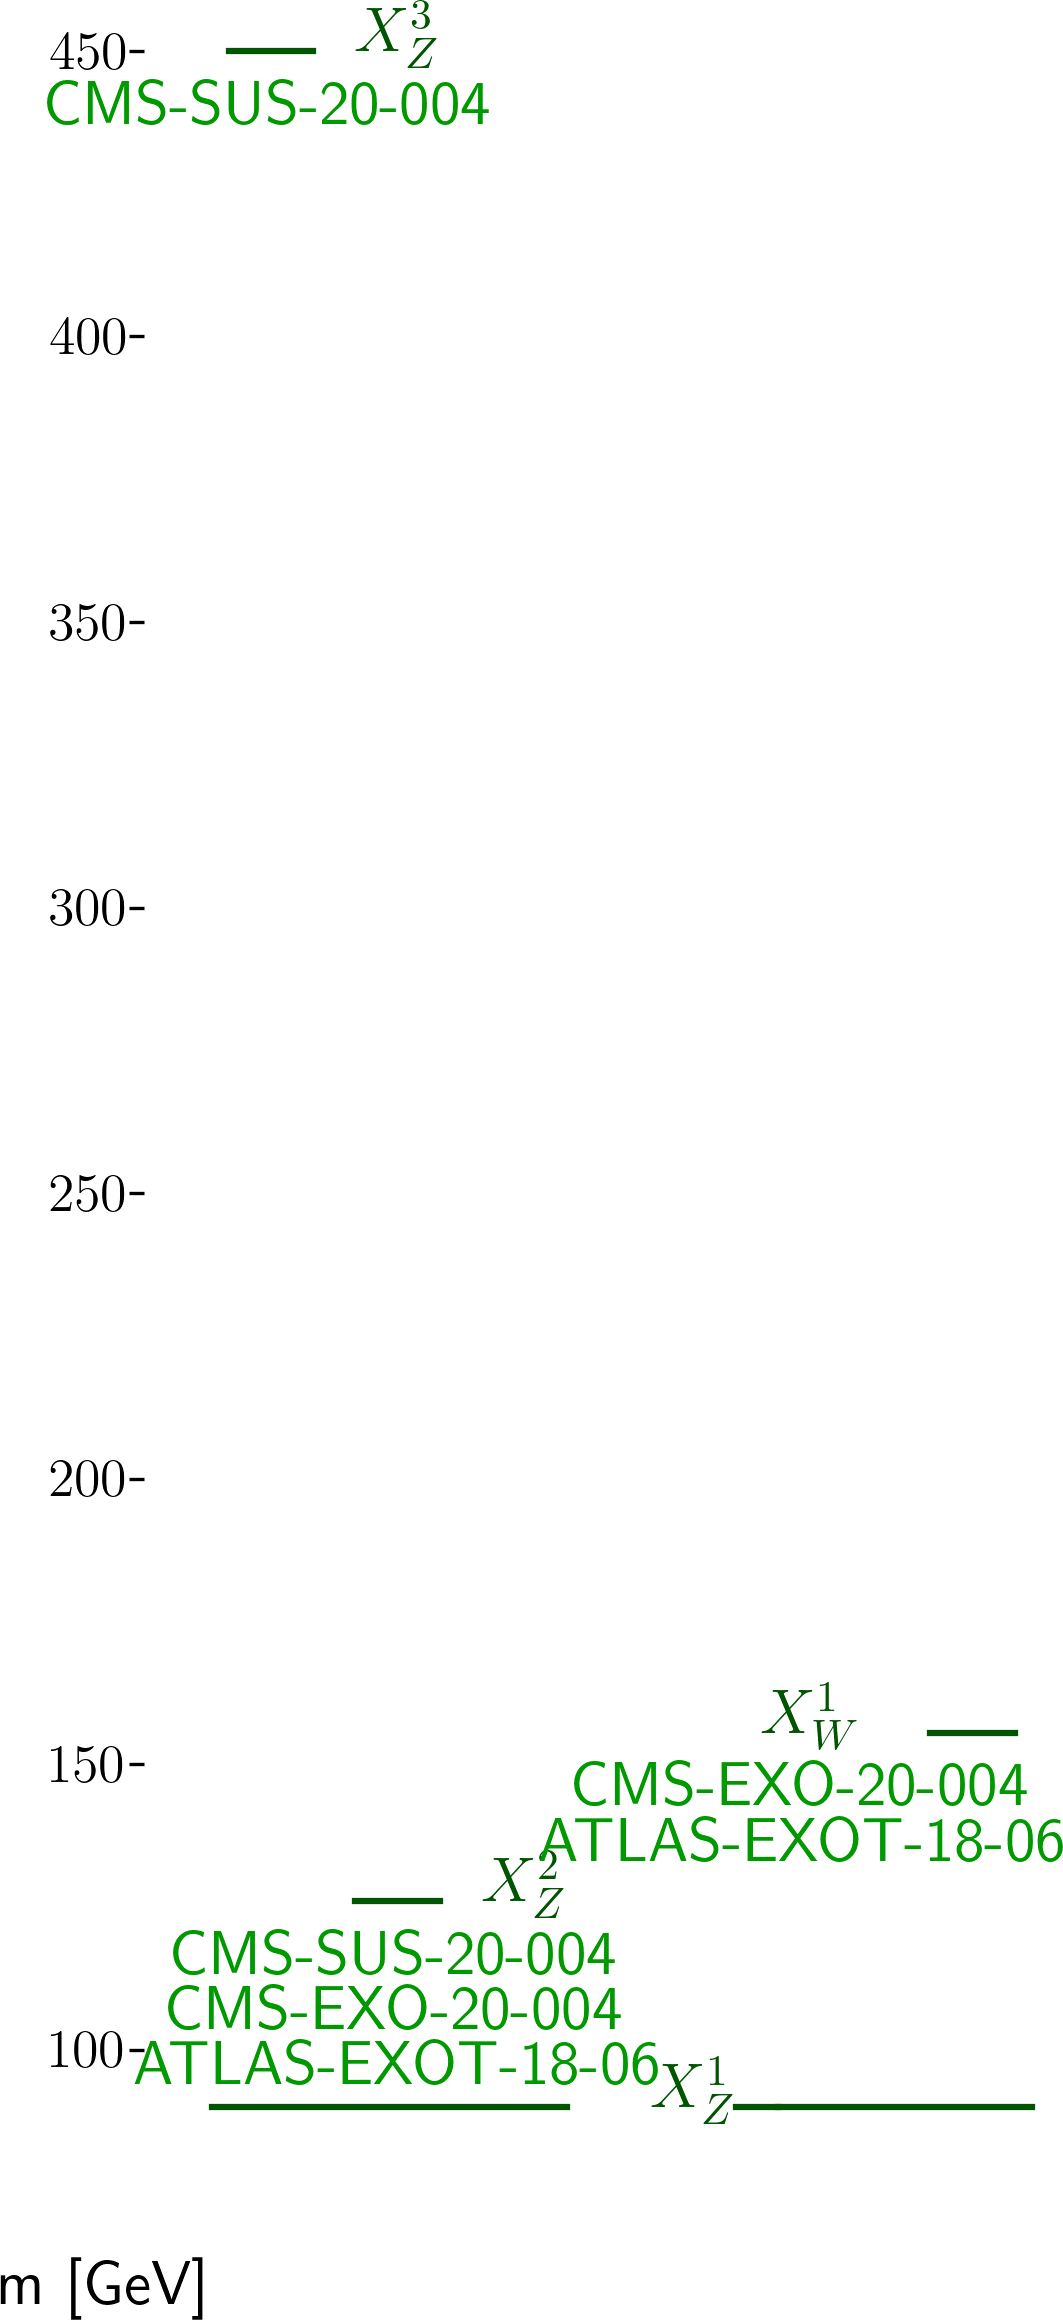
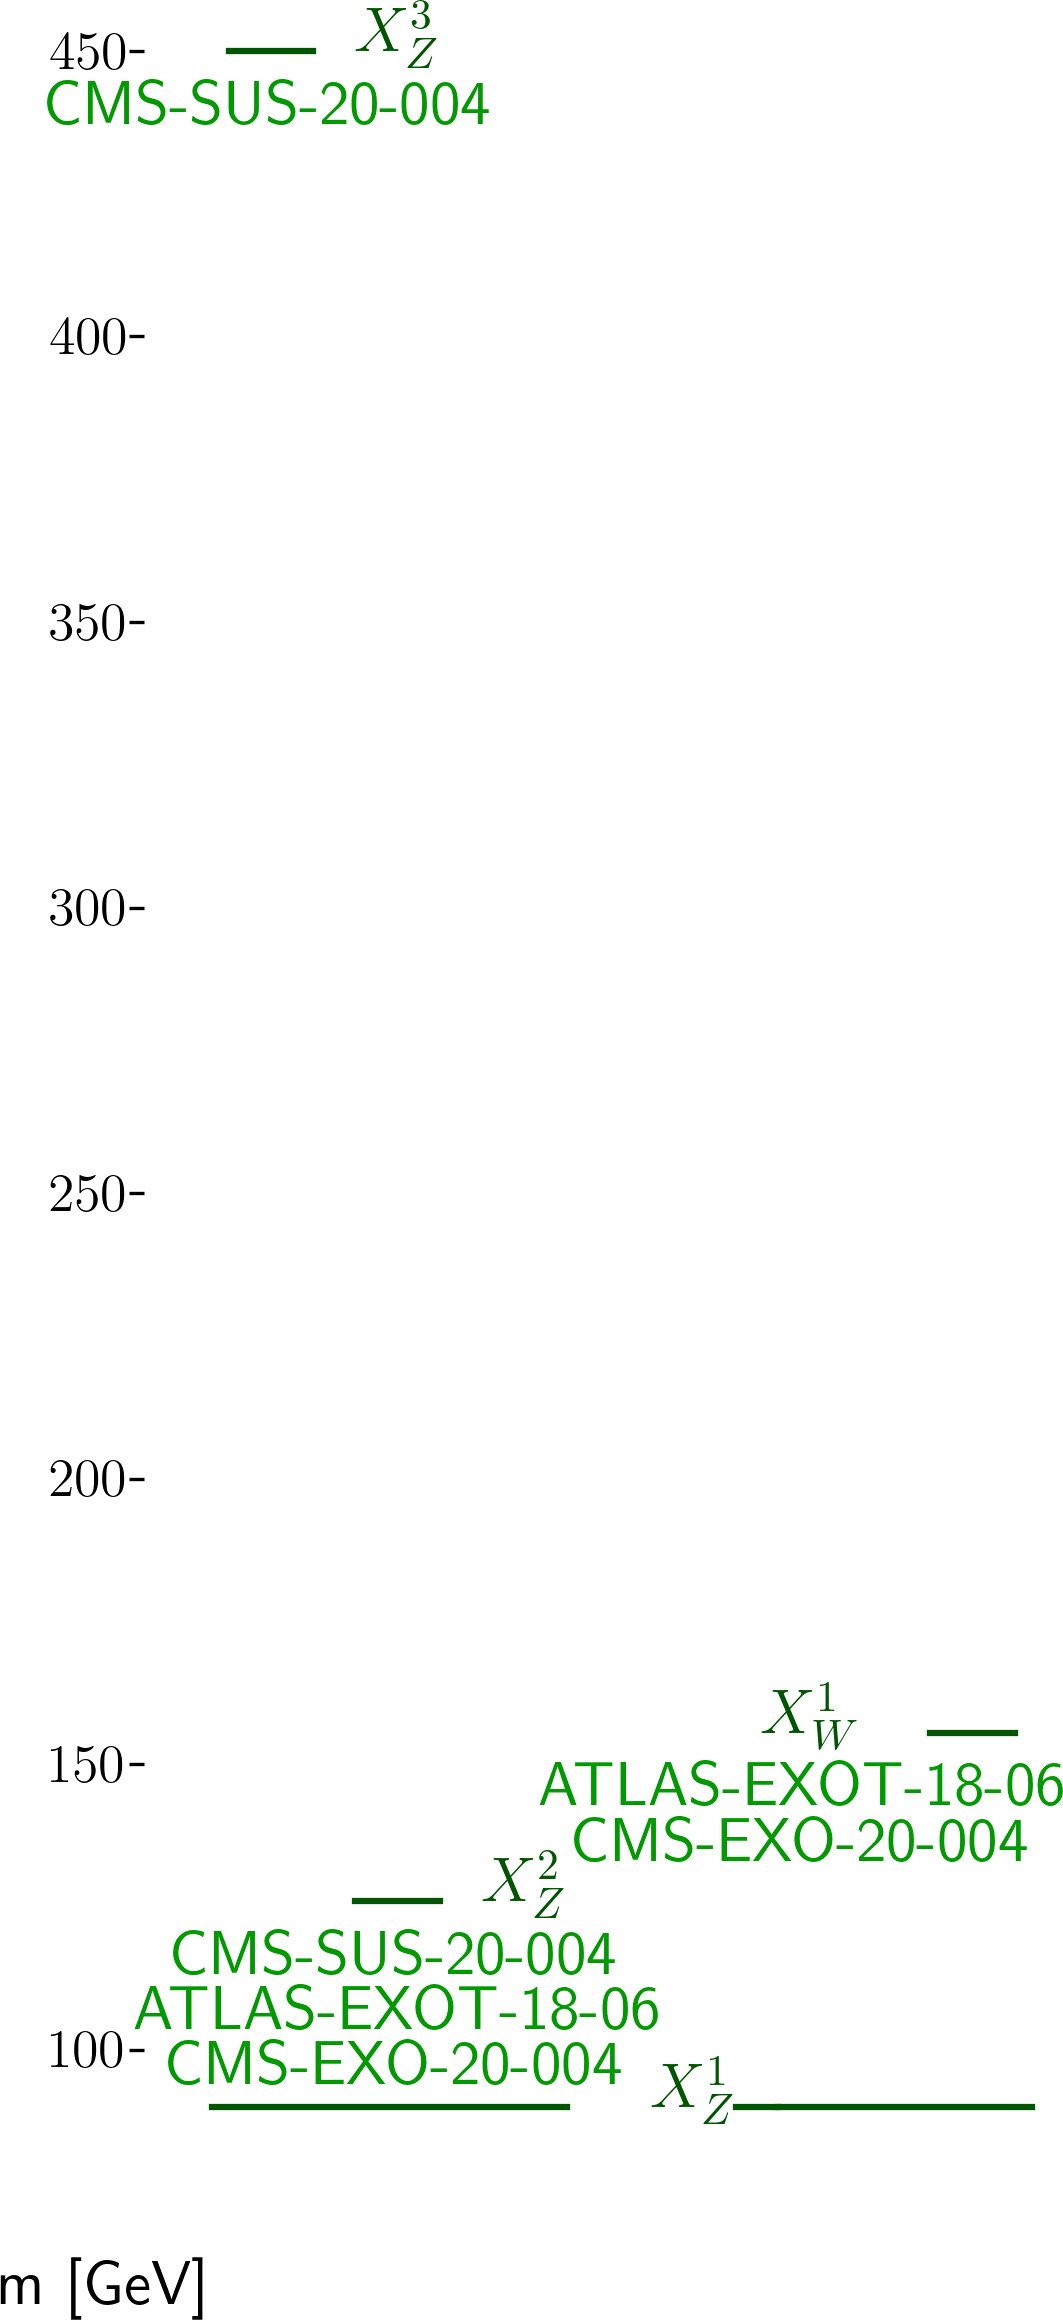
automated update by plotHiscore.py to rundir7_310:     K=28.391 TL=33.69 walkerid=uphi

Changed region(s): [[0.4967, 0.7448, 1.0, 0.8069], [0.1242, 0.8379, 0.6209, 0.9]]

diff --git a/protomodels/rundir7_310/index.html b/protomodels/rundir7_310/index.html
@@ -9,15 +9,15 @@
 <br><b>Critics:</b> passed both critics<br>
 <br><b>LLHD Critic:</b> CMS-EXO-20-004:combined, ATLAS-EXOT-2018-06:EM8, CMS-SUS-20-004:combined:: <span style='color: darkgreen;'>robs=0.95, rexp=3.22</span><br>
 <br><b>3 predictions available. Highest r values are:</b><br><ul>
-<li><a href=https://atlas.web.cern.ch/Atlas/GROUPS/PHYSICS/PAPERS/EXOT-2018-06/>ATLAS-EXOT-2018-06</a>:EM8:TChiZISRqq,TChiISR r=1.42, r<sub>exp</sub>=1.54<br>
+<li><a href=https://atlas.web.cern.ch/Atlas/GROUPS/PHYSICS/PAPERS/EXOT-2018-06/>ATLAS-EXOT-2018-06</a>:EM8:TChiISR,TChiZISRqq r=1.42, r<sub>exp</sub>=1.54<br>
 <li><a href=http://cms-results.web.cern.ch/cms-results/public-results/publications/SUS-20-004/>CMS-SUS-20-004</a>:ul:TChiHH r=0.65, r<sub>exp</sub>=1.30<br>
-<li><a href=http://cms-results.web.cern.ch/cms-results/public-results/publications/EXO-20-004/>CMS-EXO-20-004</a>:SR_2018_16:TChiZISRqq,TChiISR r=0.29, r<sub>exp</sub>=0.47<br>
+<li><a href=http://cms-results.web.cern.ch/cms-results/public-results/publications/EXO-20-004/>CMS-EXO-20-004</a>:SR_2018_16:TChiISR,TChiZISRqq r=0.29, r<sub>exp</sub>=0.47<br>
 </ul>
-<td><img width=600px src=./texdoc.png?1764325658>
-<br><span style='font-size: smaller; color: darkred;'>Last updated: Fri Nov 28 11:27:38 2025</span>
+<td><img width=600px src=./texdoc.png?1764405785>
+<br><span style='font-size: smaller; color: darkred;'>Last updated: Sat Nov 29 09:43:05 2025</span>
 </table><table style="width:80%">
-<td width=45%><img height=580px src=./ruler.png?1764325658><td width=55%><img height=220px src=./decays.png?1764325658>
-<font size=-3><iframe type="text/html" height="350px" width="100%" frameborder="0" src="./rawnumbers.html?1764325658"></iframe></font>
+<td width=45%><img height=580px src=./ruler.png?1764405785><td width=55%><img height=220px src=./decays.png?1764405785>
+<font size=-3><iframe type="text/html" height="350px" width="100%" frameborder="0" src="./rawnumbers.html?1764405785"></iframe></font>
 </table>
 </body>
 </html>
